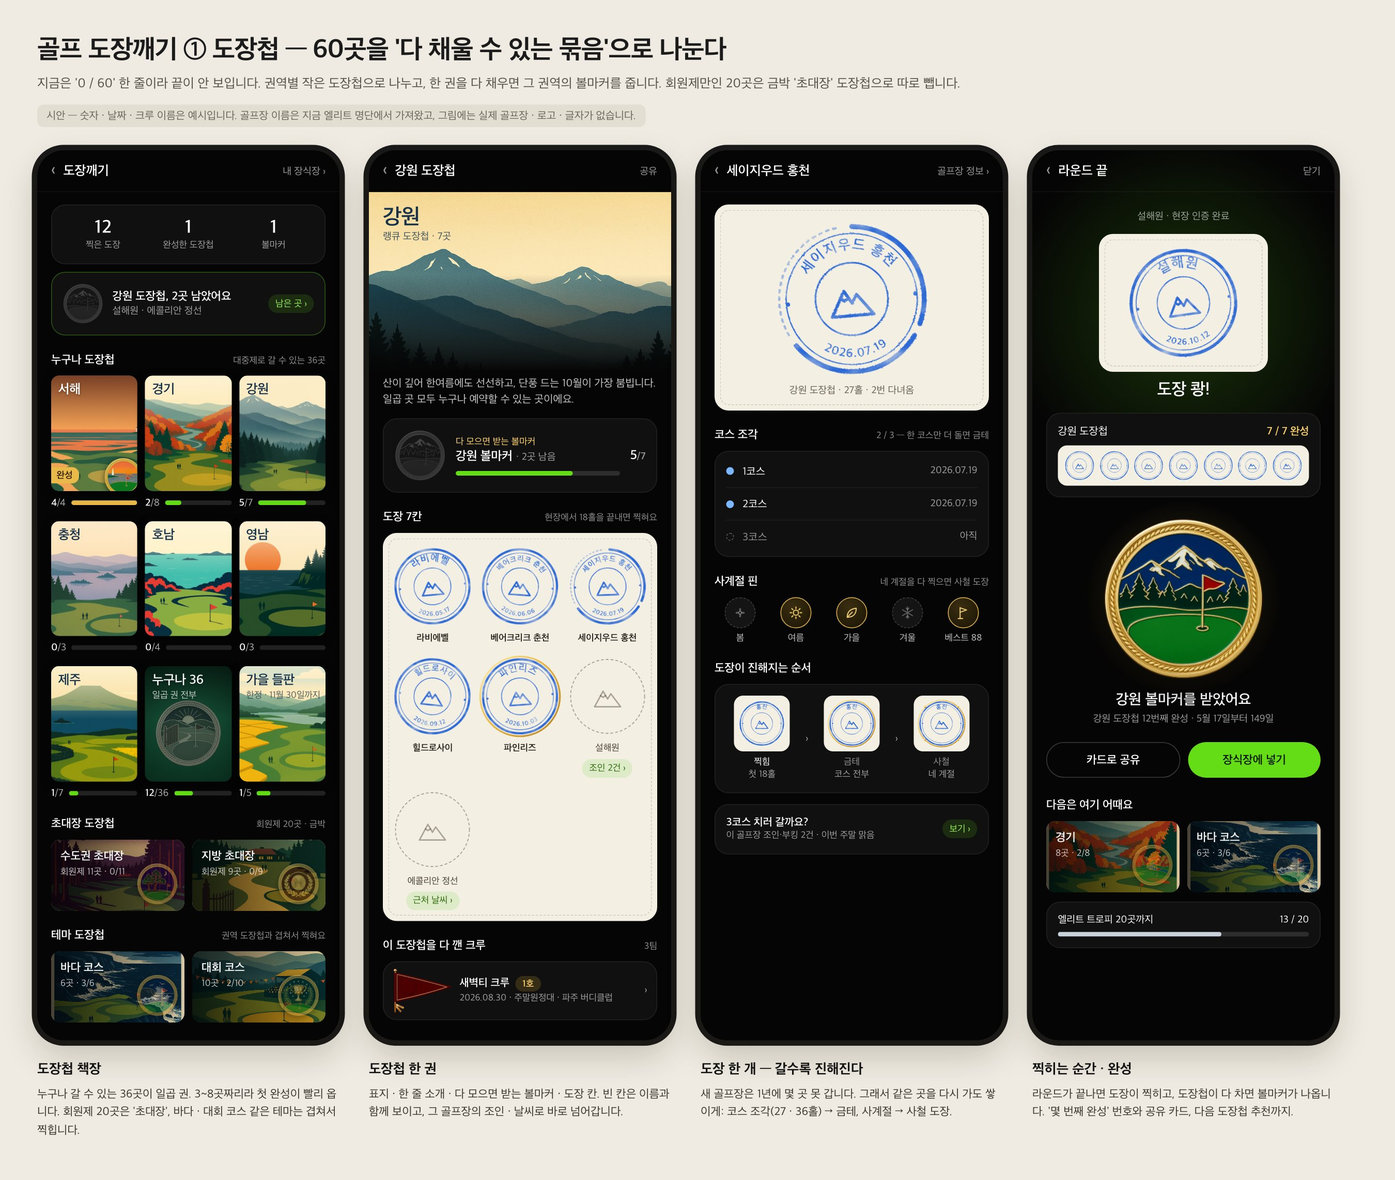
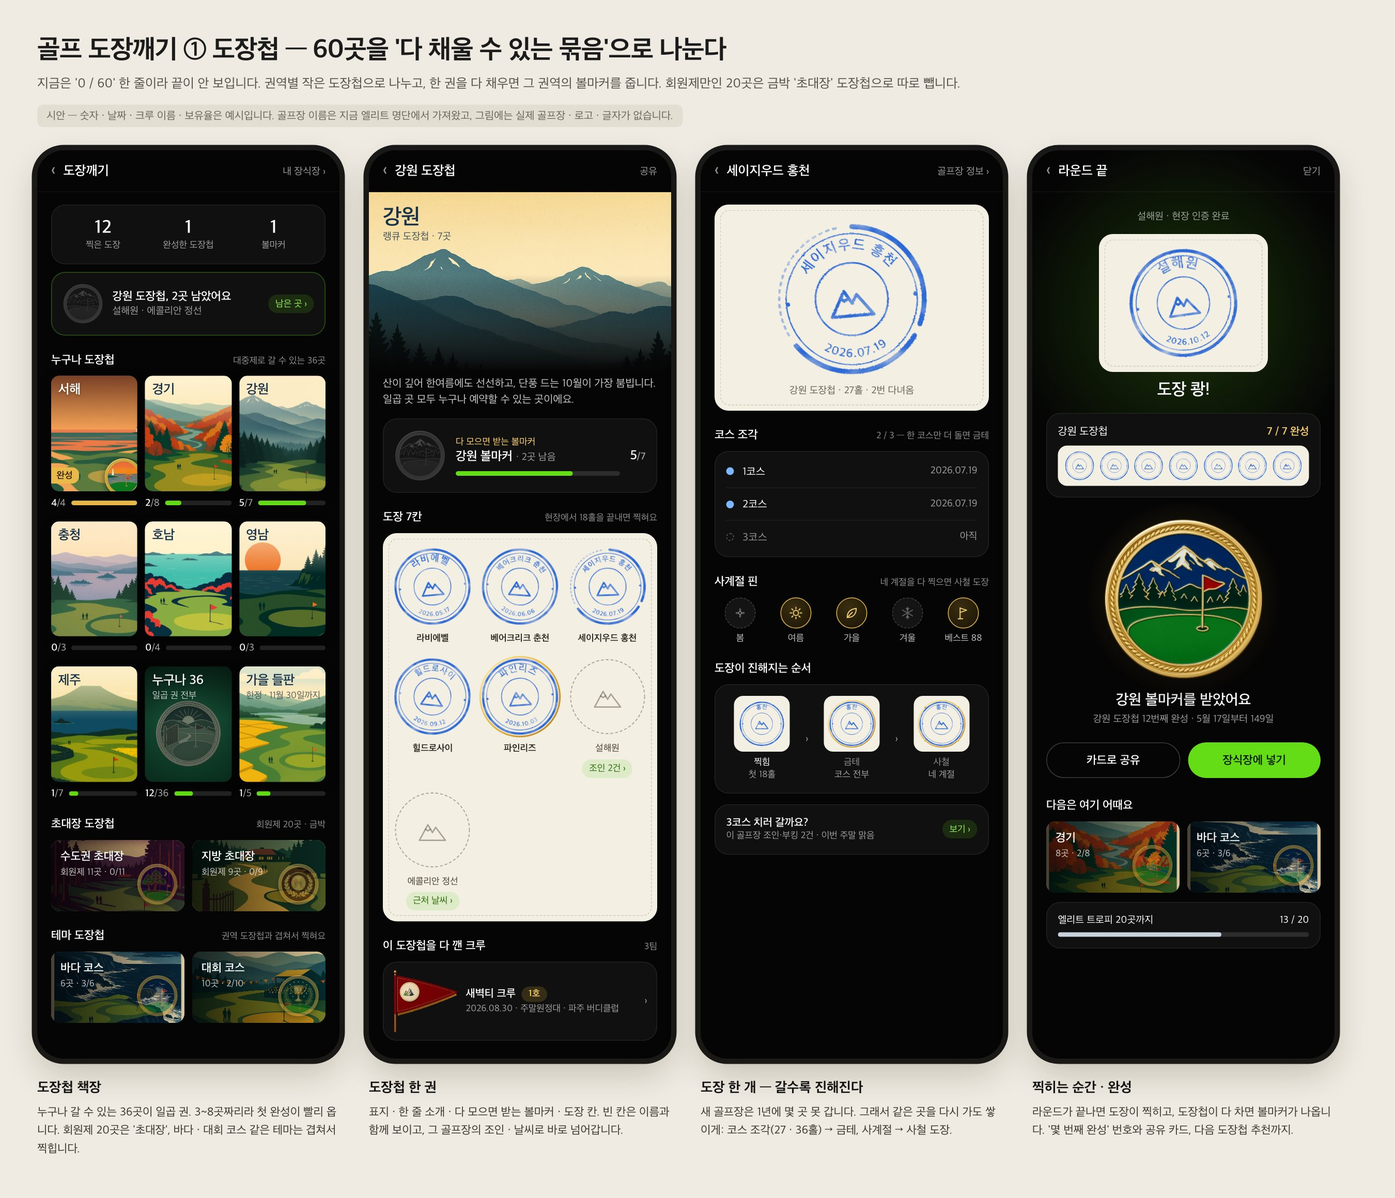
docs(plan): 골프 도장깨기 2차 — 트로피 · 깃발을 다시 그리고 모을 것을 129가지로(볼마커 41 · 업적 핀 27 · 시즌 태그 · 깃발 다섯 가지)
오너(10/12, 1차 시안의 트로피 · 깃발 그림과 함께): "깃발에 숫자 잘 들어가게 · 그리고 깃발에 원이
구별이 안 되네 확인하고 · 지금 분위기 너무 좋다 잘했는데 이미지 더더 만들어서 미친 수집욕이 들게끔"

여전히 제안이다(만든 화면 없음). 기획서 11장의 결정이 나면 10장의 순서대로 만든다.

- 숫자: 세모 깃발은 끝으로 갈수록 좁아 두 자리 숫자가 삐져나왔다. 트로피를 네모 핀 깃발로 다시
  그렸고, 숫자 자리는 그림에서 깃발 네모를 찾아 그 한가운데에 얹는다(눈대중으로 맞추지 않는다).
- 원: 엠블럼 자리가 바탕과 같은 색이었다. 흰 펠트 패치로 다시 그리고 자리도 그림에서 찾는다.
- 늘린 것(6장): 권역 볼마커 여덟 가지를 세 등급(일반 · 블랙 · 자개)으로 — 같은 곳을 다시 가서
  도장이 금테 · 사철이 되면 볼마커가 바뀐다. 테마 6 · 계절 한정 4 · 숨은 것 3 · 전설 2.
  업적 핀 27(있는 자료로 판정되는지 표로 적음 — 날씨 핀 셋은 확인 필요), 해마다 하나인 시즌 태그,
  크루 깃발 다섯 가지(기본 · 1호 · 풀조 · 초대장 · 누구나 36).
- 시안은 다섯 장: 도장첩 · 모으는 화면(장식장 · 도감 · 볼마커 등급 · 핀 보드) · 크루 원정 ·
  볼마커 41종 · 핀/트로피/태그/깃발/표지/도장. 정할 것은 열다섯 가지로 늘었다.

diff --git a/docs/01-plan/features/golf-stamp-collection.md b/docs/01-plan/features/golf-stamp-collection.md
@@ -1,10 +1,11 @@
 # 골프 도장깨기 — 도장첩 · 장식장 · 크루 원정 기획서
 
-- 상태: **제안(오너 검토 대기)** — 아직 아무것도 만들지 않았다. 10장의 결정이 나면 9장의 순서대로 만든다.
+- 상태: **제안(오너 검토 대기)** — 아직 아무것도 만들지 않았다. 11장의 결정이 나면 10장의 순서대로 만든다.
 - 쓴 날: 2026-10-12
 - 오너 말(2026-10-12): "이제 골프 차례야. 우리는 도장깨기가 우리 골프 콘텐츠의 핵심이야. 크루끼리 도장깨기 하러 가듯. 램블러라는 산악 어플 보면 각각 해당 매거진?을 구매해서 해당 산을 돌아다니면서 스탬프를 찍는 그런 게 있는데, 나는 우리 랭큐 골프도 지금 엘리트 코스 60개를 세분화해서 골프도 장식장 및 수집욕구를 만들고 싶어. 그래서 당구처럼 이미지 제작 및 여러 가지 제안해줘."
-- 시안 그림: [① 도장첩](golf-stamp-collection/sheets/sheet-1-books.jpg) · [② 장식장 · 크루 원정](golf-stamp-collection/sheets/sheet-2-shelf-crew.jpg) · [③ 그림 모음](golf-stamp-collection/sheets/sheet-3-art.jpg)
-  - 시안의 숫자 · 날짜 · 크루 이름은 예시다. 골프장 이름은 지금 엘리트 명단에서 가져왔다. 그림에는 실제 골프장 · 로고 · 글자가 없다.
+- 시안 그림: [① 도장첩](golf-stamp-collection/sheets/sheet-1-books.jpg) · [② 모으는 화면(장식장 · 도감 · 볼마커 등급 · 핀 보드)](golf-stamp-collection/sheets/sheet-2-collection.jpg) · [③ 크루 원정](golf-stamp-collection/sheets/sheet-3-crew.jpg) · [④ 볼마커 41종](golf-stamp-collection/sheets/sheet-4-markers.jpg) · [⑤ 업적 핀 · 트로피 · 시즌 태그 · 깃발 · 표지 · 도장](golf-stamp-collection/sheets/sheet-5-pins-trophies.jpg)
+  - 2차(같은 날 오너: "깃발에 숫자 잘 들어가게 · 깃발에 원이 구별이 안 되네 · 지금 분위기 너무 좋다 · 이미지 더더 만들어서 미친 수집욕이 들게끔") — 트로피와 깃발을 다시 그리고 수집물을 129가지로 늘렸다(6장).
+  - 시안의 숫자 · 날짜 · 크루 이름 · 보유율은 예시다. 골프장 이름은 지금 엘리트 명단에서 가져왔다. 그림에는 실제 골프장 · 로고 · 글자가 없다.
 
 ## 1. 한눈에
 
@@ -12,9 +13,11 @@
 |---|---|---|---|---|
 | 도장 | 골프장 한 곳 | 56(지금 명단) | 그 골프장에서 현장 인증된 18홀 | 잉크 도장(코드로 그린다) |
 | 도장첩 | 도장의 묶음 | 권역 7 + 초대장 2 + 테마 2~ | 묶음 안의 도장을 다 모으면 '완성' | 표지 그림(매거진의 얼굴) |
-| 볼마커 | 도장첩 완성 증표 | 도장첩마다 1 | 도장첩 완성 | 에나멜 볼마커(그림) |
-| 트로피 | 엘리트 마일스톤 | 5 | 찍은 골프장 10 · 20 · 30 · 45 · 전부 | 깃대 트로피(그림) |
-| 깃발 | 크루가 같이 깬 것 | 도장첩마다 | 크루 도장첩 완성 · '1호'는 처음 깬 크루 | 펠트 깃발(그림) |
+| 볼마커 | 도장첩 완성 증표 | 41(6장) | 도장첩 완성 · 권역 볼마커는 세 등급 | 에나멜 볼마커(그림) |
+| 업적 핀 | 라운드를 하다 보면 붙는 것 | 27 | 새벽 첫 티 · 첫 버디 · 100 깨기 같은 조건 | 모양이 다 다른 에나멜 핀(그림) |
+| 트로피 | 엘리트 마일스톤 | 5 | 찍은 골프장 10 · 20 · 30 · 45 · 전부 | 네모 핀 깃발 트로피(그림) |
+| 시즌 태그 | 그해의 기념 | 해마다 1 | 그해 인증 라운드 수로 가죽 · 네이비 · 버건디 | 백 태그(그림) |
+| 깃발 | 크루가 같이 깬 것 | 5종 | 크루 도장첩 완성 · '1호'는 처음 깬 크루 | 펠트 깃발, 흰 패치에 크루 엠블럼(그림) |
 
 **핵심 생각 세 가지**
 
@@ -100,7 +103,7 @@
 | 금테 | 그 골프장의 코스를 전부 돌았다 | 금 고리 |
 | 사철 | 봄 · 여름 · 가을 · 겨울에 다 갔다 | 금 고리에 네 점 |
 
-- 18홀뿐인 골프장은 코스 조각이 없다 → 금테 조건을 '두 번 방문' 같은 것으로 따로 둘지 정해야 한다(10장).
+- 18홀뿐인 골프장은 코스 조각이 없다 → 금테 조건을 '두 번 방문' 같은 것으로 따로 둘지 정해야 한다(11장).
 - **점수로 등급을 나누지 않는다.** 지금 엘리트 카드에는 타수 라벨(80 미만 레전드 · 90 미만 마스터 · 100 미만 챔피언 · 그 위 챌린저)이 있는데, 수집 조건에 타수를 넣으면 못 치는 사람은 영영 못 모은다. 타수는 '내 베스트' 핀 하나로만 남기는 쪽을 권한다.
 - 코스 이름은 원장(`golf_club_courses`)에 있고 라운드에는 전반 · 후반 코스 이름이 글자로 남는다. 이름이 정확히 맞는지는 만들 때 확인해야 한다(글자가 달라 못 맞추는 곳이 있을 수 있다).
 
@@ -108,21 +111,76 @@
 
 당구의 장식장과 같은 자리(내 것을 모아 보는 한 화면), 다른 물건.
 
-- **볼마커 수집함** — 펠트 깔린 나무 상자, 도장첩마다 한 칸. 못 받은 칸은 윤곽과 '2/8'이 보인다.
+- **볼마커 수집함** — 펠트 깔린 나무 상자, 도장첩마다 한 칸. 못 받은 칸은 윤곽과 '2/8'이 보인다. 칸 아래 점 셋이 등급(일반 · 블랙 · 자개).
 - **엘리트 트로피** — 선반에 다섯 개. 다음 트로피까지 몇 곳인지 한 줄.
+- **업적 핀** — 코르크 판에 꽂힌 핀. 못 받은 핀도 윤곽과 조건이 보인다.
+- **시즌 태그** — 그해의 백 태그 하나. 해가 바뀌면 새 태그가 생기고 지난 태그는 남는다.
 - **크루 깃발** — 크루와 같이 완성한 도장첩.
-- **한정 볼마커** — 그 철에만 받을 수 있는 것, 남은 날.
+- **도감** — 전체 수집률과 '지금 가장 가까운 것' 하나. 장식장에서 들어간다.
 - 남의 장식장도 볼 수 있다(프로필 → 장식장). 완성한 볼마커는 공유 카드로.
 
-왜 볼마커인가: 골퍼가 실제로 골프장에서 사 모으는 물건이다. 설명이 필요 없고, 당구의 메달 · 방패 · 육각 판과 섞이지 않는다. 나중에 **실물로 만들 수 있다**(7장).
+왜 볼마커인가: 골퍼가 실제로 골프장에서 사 모으는 물건이다. 설명이 필요 없고, 당구의 메달 · 방패 · 육각 판과 섞이지 않는다. 나중에 **실물로 만들 수 있다**(8장).
 
-## 6. 크루 도장깨기
+## 6. 모을 것 전체 — 129가지, 그리고 해마다 하나(2차에서 늘린 것)
+
+"미친 수집욕"을 한 가지 큰 목표로 만들지 않고, **끝이 있는 작은 목표를 여러 겹으로** 겹쳤다. 어느 라운드를 해도 무언가 하나는 가까워지게 하려는 것이다.
+
+| 모으는 것 | 수 | 무엇으로 늘어나나 |
+|---|---|---|
+| 도장 | 56 | 새 골프장 |
+| 볼마커 | 41 | 도장첩 완성 · 같은 곳을 다시 가서 등급 올리기 · 철 · 날짜 |
+| 업적 핀 | 27 | 라운드 그 자체(시간 · 날씨 · 타수 · 동반자 · 횟수) |
+| 트로피 | 5 | 찍은 골프장 수 |
+| 시즌 태그 | 해마다 1 | 그해의 인증 라운드 수 |
+| (크루) 깃발 | 5종 | 크루가 같이 |
+
+### 6.1 볼마커 41종
+
+- **권역 여덟 가지 × 세 등급 = 24** (서해 · 경기 · 강원 · 충청 · 호남 · 영남 · 제주 · 누구나 36)
+  - 일반(금테 에나멜) — 도장첩을 다 채움
+  - 블랙(밤 풍경 · 검은 니켈) — 그 권의 도장이 **전부 금테**(골프장마다 코스를 다 돌았다)
+  - 자개(자개 상감 · 백금) — 그 권의 도장이 **전부 사철**(골프장마다 네 계절). 몇 해가 걸리는 끝판이다.
+  - 같은 그림이 등급에 따라 바뀌므로 '이미 받은 것'이 다음 목표가 된다. 위 등급은 미리 보여 준다.
+- **초대장 2** — 수도권 · 지방(회원제). 등급 없음.
+- **테마 6** — 바다 · 대회 · 섬 · 숲 · 구름 위 · 세 코스(27홀을 전부). 어느 골프장이 드는지는 사실 확인 뒤(3.2와 같다).
+- **계절 한정 4** — 봄 벚꽃 · 여름 초록 · 가을 들판 · 겨울 설경. 그 철에만 받을 수 있고 해마다 다시 열린다.
+- **숨은 볼마커 3** — 화면에는 '?'로만 보이고 받는 순간 공개된다(새해 첫 티 · 생일 라운드 · 첫눈). 조건을 숨기는 것이 재미이므로 수를 늘리지 않는다.
+- **전설 2** — 홀인원 · 그랜드슬램(56곳 전부).
+- **보유율** — 볼마커마다 "회원 100명 중 3명이 가졌어요"를 보여 준다. 회원이 적을 때는 숫자가 민망하므로, 일정 수가 될 때까지는 '몇 번째로 받았는지'만 보여 주는 쪽을 권한다.
+
+### 6.2 업적 핀 27종
+
+골프장을 새로 가지 않아도 붙는 것. **있는 자료로 판정할 수 있는가**를 같이 적는다.
+
+| 핀 | 조건 | 자료 |
+|---|---|---|
+| 첫 도장 · 10 · 50 · 100 라운드 | 인증 라운드 횟수 | 있음 |
+| 새벽 첫 티 · 야간 라운드 · 하루 36홀 | 라운드 시작 · 끝 시각 | 있음 |
+| 세 달 연속 · 열두 달 개근 | 달마다 인증 라운드 | 있음 |
+| 첫 버디 · 이글 · 보기 없는 9홀 | 홀 타수 + 파 자료 | 있음(파 자료가 있는 코스만 — 지금 94%) |
+| 100 깨기 · 90 깨기 · 80 깨기 | 18홀 타수 | 있음 |
+| 니어핀 | 라운드의 니어 기록 | 있음 |
+| 풀조 · 새 동반자 | 같은 라운드의 인증 회원 | 있음 |
+| 첫 원정 · 긴급 조인 | 크루 원정 · 당일 조인으로 만든 라운드 | 연결 필요(원정은 새로 만드는 것) |
+| 전국 한 바퀴 · 첫 금테 · 첫 초대 | 도장 | 있음 |
+| 원정 사진 | 라운드 사진 | 있음 |
+| 우중 완주 · 한여름 · 한겨울 | 그 시각의 날씨 | **확인 필요** — 지금 있는 것은 예보를 받아 둔 것이라, 지난 시각의 관측을 따로 받아야 할 수 있다 |
+
+- 타수 핀('깨기')은 넣었다. 4장에서 "타수로 수집 조건을 나누지 않는다"고 한 것은 **도장과 볼마커**의 이야기다. 100 깨기는 골퍼가 가장 자랑하는 순간이라 핀으로는 두되, 도장첩 완성과는 섞지 않는다.
+- 타수는 방장이 적는 값이다. 핀은 현장 인증된 라운드에서만 준다. 그래도 전설 볼마커(홀인원)는 동반자 확인 같은 장치를 하나 더 두는 쪽이 안전하다(11장).
+
+### 6.3 시즌 태그
+
+- 해마다 그해의 백 태그 하나. 그해 인증 라운드가 1번이면 가죽, 12번이면 네이비, 24번이면 버건디(수는 예시 — 정해야 한다).
+- 해가 바뀌면 새 태그가 생기고 지난 태그는 장식장에 남는다. "올해도 한 줄"이 다시 오는 이유가 된다.
+
+## 7. 크루 도장깨기
 
 오너의 말 "크루끼리 도장깨기 하러 가듯"을 규칙으로 옮긴 것.
 
 1. **크루 도장** — 같은 라운드에서 크루원 **2명 이상**이 현장 인증하면 그 골프장이 크루 도장첩에 찍힌다. 넷이 한 조를 채우면 금테. 혼자 다니는 사람이 크루 수를 올릴 수 없다.
 2. **원정** — 크루장(· 운영진)이 다음 원정지를 정한다 → 크루 채팅에 카드 → 크루원이 손든다 → 이미 있는 조인 · 부킹 글로 이어진다. 라운드가 끝나면 크루 도장 + 원정 사진(지금 있는 라운드 사진).
-3. **깃발** — 크루가 도장첩을 다 채우면 깃발. 그 도장첩을 **처음** 다 채운 크루는 빨간 '1호 깃발'이 영원히 남는다.
+3. **깃발** — 크루가 도장첩을 다 채우면 깃발. 가운데 흰 패치에 크루 엠블럼이 들어간다. 다섯 가지: 기본(초록) · **1호**(진홍 — 그 도장첩을 처음 다 채운 크루에게 영원히) · 풀조(남색 — 한 권 전부를 넷이 한 조로) · 초대장(보라) · 누구나 36(금색).
 4. **골프장 페이지** — 공개 페이지 490곳에 '이 골프장을 깬 크루'가 붙는다. 검색으로 들어온 사람이 크루를 발견하는 길이다(당구 매장 페이지의 '활동 크루'와 같은 원리).
 5. **크루 순위** — 도장 수 · 완성한 도장첩 · 이달의 원정. **크루가 열 팀쯤 모이기 전에는 켜지 않는다**(지금 켜면 빈 표다).
 
@@ -132,7 +190,7 @@
 - 크루 도장은 크루에 들어온 **뒤**의 라운드만 센다(가입 전에 깬 것을 들고 오지 못하게).
 - 내기 · 돈과 닿는 말은 넣지 않는다. 순위에 상금 · 경품을 걸지 않는다.
 
-## 7. 매거진과 돈
+## 8. 매거진과 돈
 
 - 램블러의 '매거진을 사서 스탬프를 찍는' 구조는 내가 검색으로 확인하지 못했다. 그래서 오너가 설명한 모양(묶음을 골라 들어가 그 안의 지점을 돌며 찍는다)을 기준으로 삼았다. 비슷한 것으로 확인된 사례: 블랙야크 알파인 클럽의 '역사문화 대장정'은 앱에 GPS 발도장과 사진을 올려 인증하고, 인증 횟수별 디지털 배지와 100곳 완주 인증서를 준다(2025-10 보도, [헤럴드경제](https://www.heraldk.com/article/2025101516584427297)).
 - **도장첩 = 매거진**으로 본다: 표지 + 그 권역 소개 몇 줄 + 골프장마다 한 줄(무엇으로 알려졌는지 · 언제 좋은지) + 이미 있는 날씨 · 근처 · 시세 · 조인으로 가는 길. 글은 사실 확인을 거쳐 사람이 쓴다.
@@ -142,7 +200,7 @@
   2. **협찬 도장첩** — 골프장 · 브랜드가 한정 도장첩의 표지를 맡는다.
   3. **유료 테마 도장첩** — 무료 권역 도장첩으로 습관이 생긴 뒤에.
 
-## 8. 수집욕을 만드는 작은 장치
+## 9. 수집욕을 만드는 작은 장치
 
 1. **빈 칸이 보인다** — 무엇이 남았는지 이름과 함께.
 2. **'하나 남음' 알림** — "강원 도장첩 1곳 남았어요" → 그 골프장의 조인 · 날씨로. 이미 있는 관심 알림을 쓴다.
@@ -153,20 +211,21 @@
 7. **공유 카드** — 완성 인증 카드(지금 있는 카드 그림 인프라).
 8. **지도와 한 몸** — 발자국 지도에서 도장첩 색으로 점이 칠해진다.
 
-## 9. 만드는 순서(권하는 순서)
+## 10. 만드는 순서(권하는 순서)
 
 | 단계 | 무엇 | 비고 |
 |---|---|---|
 | 0 | **명단 확정** + 표시 이름 정리 + 명단을 골프장 원장 번호로 옮기기 | 오너 결정이 먼저. 지금은 이름 글자로 맞춘다(공백 · CC 떼고 포함 관계) |
 | 1 | 도장첩 v1 — 묶음 정의(shared) · 책장 · 한 권 화면 · 빈 칸 · 잉크 도장 · 완성 볼마커 | 여권의 '도장' 보기와 엘리트 화면을 이것으로 바꾼다 |
-| 2 | 골프 장식장 + 트로피 + 완성 공유 카드 + '하나 남음' 알림 | |
-| 3 | 도장 깊이 — 코스 조각 · 금테 · 사계절 | 코스 이름 맞추기 확인 필요 |
-| 4 | 크루 도장깨기 — 크루 도장 · 원정 · 깃발 · 골프장 페이지 | 순위는 크루가 모인 뒤 |
-| 5 | 테마 · 한정 도장첩, 매거진 글, (나중에) 실물 볼마커 | 사실 확인 · 글쓰기가 먼저 |
+| 2 | 골프 장식장 + 도감 + 트로피 + 완성 공유 카드 + '하나 남음' 알림 | |
+| 3 | 업적 핀(있는 자료로 되는 것부터) + 시즌 태그 | 날씨 핀 셋은 자료 확인 뒤 |
+| 4 | 도장 깊이 — 코스 조각 · 금테 · 사계절 → 볼마커 블랙 · 자개 등급 | 코스 이름 맞추기 확인 필요 |
+| 5 | 크루 도장깨기 — 크루 도장 · 원정 · 깃발 다섯 가지 · 골프장 페이지 | 순위는 크루가 모인 뒤 |
+| 6 | 테마 · 계절 한정 · 숨은 볼마커, 매거진 글, (나중에) 실물 볼마커 | 사실 확인 · 글쓰기가 먼저 |
 
 자료 구조(안): 도장첩 정의는 `shared/`의 순수 표(권 id · 이름 · 종류 · 골프장 번호들), 진행은 지금의 도장 셈(`collectStamps`)에서 계산한다. 새 표는 완성 기록(누가 · 어느 권 · 언제 · 몇 번째)과 크루 도장 · 원정 정도다. 전부 더하는 변경이다.
 
-## 10. 오너가 정할 것
+## 11. 오너가 정할 것
 
 | # | 물음 | 내 의견 |
 |---|---|---|
@@ -180,13 +239,22 @@
 | 8 | 여러 크루에 든 사람의 라운드 | 주 크루 하나에만 |
 | 9 | 돈: 지금 무료 / 처음부터 유료 도장첩 | 지금 무료 |
 | 10 | 지금 있는 기록 5판(현장 인증 전 옛 기록 4판)을 도장으로 인정할지 | 인정(지금 규칙 그대로) |
+| 11 | 볼마커 세 등급(일반 · 블랙 · 자개)을 둘지 | 둔다 — 같은 곳을 다시 가는 이유가 된다 |
+| 12 | 업적 핀 27종 가운데 뺄 것 · 타수 핀('깨기')을 둘지 | 둔다. 날씨 핀 셋은 자료 확인 뒤 |
+| 13 | 숨은 볼마커(조건 비공개) · 전설(홀인원)의 확인 방법 | 숨은 것 셋 유지 · 홀인원은 동반 인증 회원 한 명의 확인 |
+| 14 | 보유율("100명 중 3명")을 보여 줄지 | 회원이 모일 때까지는 '몇 번째'만 |
+| 15 | 시즌 태그의 등급 기준(12 · 24 라운드) | 첫 해 실적을 보고 정한다 |
 
-## 11. 이번에 만든 그림
+## 12. 이번에 만든 그림
 
-- 그림 모델(gpt-5-image-mini)로 38장을 그렸고(다시 그린 것 포함) 약 1.8달러가 들었다. 원본과 따낸 그림은 `reports/golf-stamps-1012/`(저장소에 올리지 않는 폴더)에 있다.
+- 그림 모델(gpt-5-image-mini)로 1차 38장 · 2차 86장, 모두 124장을 그렸고(다시 그린 것 포함) 약 6.1달러가 들었다. 원본과 따낸 그림은 `reports/golf-stamps-1012/`(저장소에 올리지 않는 폴더)에 있다.
+- **2차에서 고친 두 가지(오너 지적)**
+  - *깃발에 숫자가 잘 안 들어갔다* — 세모 깃발은 끝으로 갈수록 좁아져 두 자리 숫자가 삐져나왔다. 트로피를 **네모 핀 깃발**로 다시 그렸고, 숫자 자리는 눈대중이 아니라 그림에서 깃발 네모를 찾아(색이 같은 이어진 영역) 그 한가운데, 네모 높이에 맞춘 크기로 얹는다.
+  - *깃발의 원이 구별되지 않았다* — 엠블럼 자리가 바탕과 같은 색의 눌린 자국이었다. **흰 펠트 패치**(금실 테두리)로 다시 그렸고, 패치의 자리도 그림에서 찾아 엠블럼을 한가운데에 넣는다.
+- 2차에서 새로 그린 것: 볼마커 등급 16(블랙 8 · 자개 8) · 새 볼마커 12(테마 4 · 계절 3 · 숨은 것 3 · 전설 2) · 업적 핀 27 · 트로피 5 · 시즌 태그 3 · 깃발 5 · 표지 6.
   - 볼마커 13 — 같은 금테 · 같은 크기, 가운데 그림만 다르다. 첫 장을 본으로 나머지를 그려 한 벌로 맞췄다.
   - 도장첩 표지 12 — 여행 포스터 화풍. 위 3분의 1을 비워 그려 제목을 코드가 얹는다.
   - 트로피 5 · 깃발 2 — 숫자와 크루 엠블럼은 코드가 얹는다.
 - 잉크 도장은 **그림이 아니라 코드(SVG)**다. 56곳 이름이 다 달라야 하고 단계마다 모양이 바뀌어야 해서다. 도장은 늘 종이(도장첩 속지) 위에 찍힌다.
-- 다시 그린 것: 제주(처음 그림은 눈 덮인 뾰족한 화산이라 다른 나라 산으로 읽혔다 → 넓고 낮은 오름 · 돌담 · 유채), 영남(탑 모양이 어색해 바위 · 해 · 소나무로), 맨 위 트로피(검은 깃발이 바탕과 섞였다), 초대장(열쇠 이가 글자처럼 보였다).
+- 다시 그린 것: 제주(처음 그림은 눈 덮인 뾰족한 화산이라 다른 나라 산으로 읽혔다 → 넓고 낮은 오름 · 돌담 · 유채. 블랙 · 자개 등급에서도 같은 일이 생겨 다시 그렸다), 영남(탑 모양이 어색해 바위 · 해 · 소나무로), 맨 위 트로피(검은 깃발이 바탕과 섞였다), 초대장(열쇠 이가 글자처럼 보였다), 새해 볼마커(붉은 해와 흰 학이 다른 나라의 상징으로 읽혔다 → 노란 해 · 소나무 · 까치), 열두 달 핀(가운데 작은 깃발이 어느 나라 국기처럼 보였다 → 골프공), 우산 · 봉투 핀(속이 비어 나왔다 → 채운 우산 · 열쇠).
 - 전부 시안이다. 고른 뒤에 본 그림으로 다듬는다(크기 · 여백 · 어두운 화면에서의 색).
